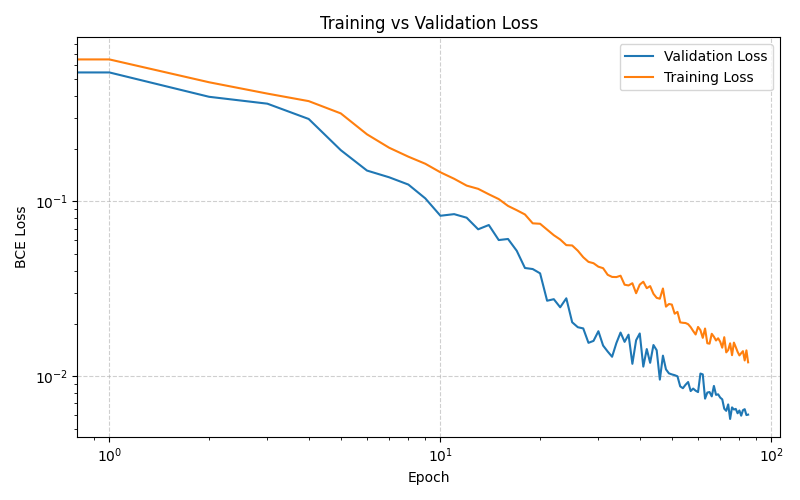
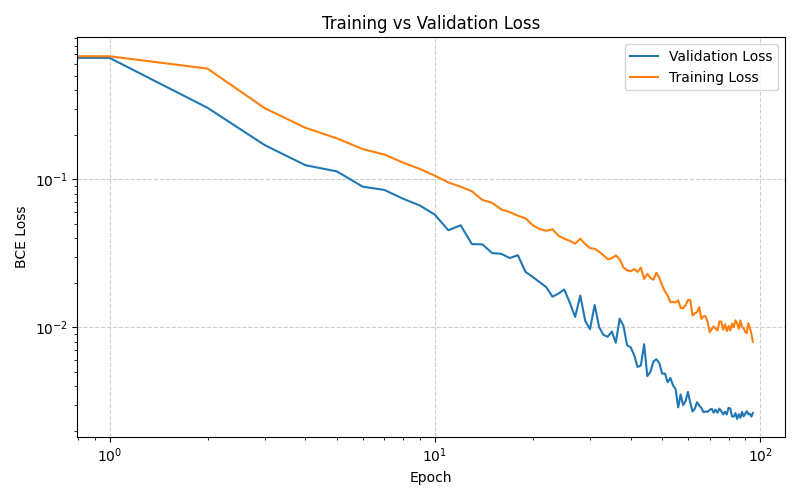
bug fixing to previous commit

diff --git a/Neural_Network/CNN.py b/Neural_Network/CNN.py
@@ -157,6 +157,6 @@ if __name__ == '__main__':
     
     tables, num_sets, num_cards, num_attributes, num_tables = process(args.infile)
     tables, num_sets = augment_data(tables, num_sets, num_cards, num_attributes, num_tables)
-    model = train_dnn(tables, num_sets, num_cards, num_attributes, num_tables)
+    model = train_cnn(tables, num_sets, num_cards, num_attributes)
     test_cnn(model, tables, num_sets)
 
